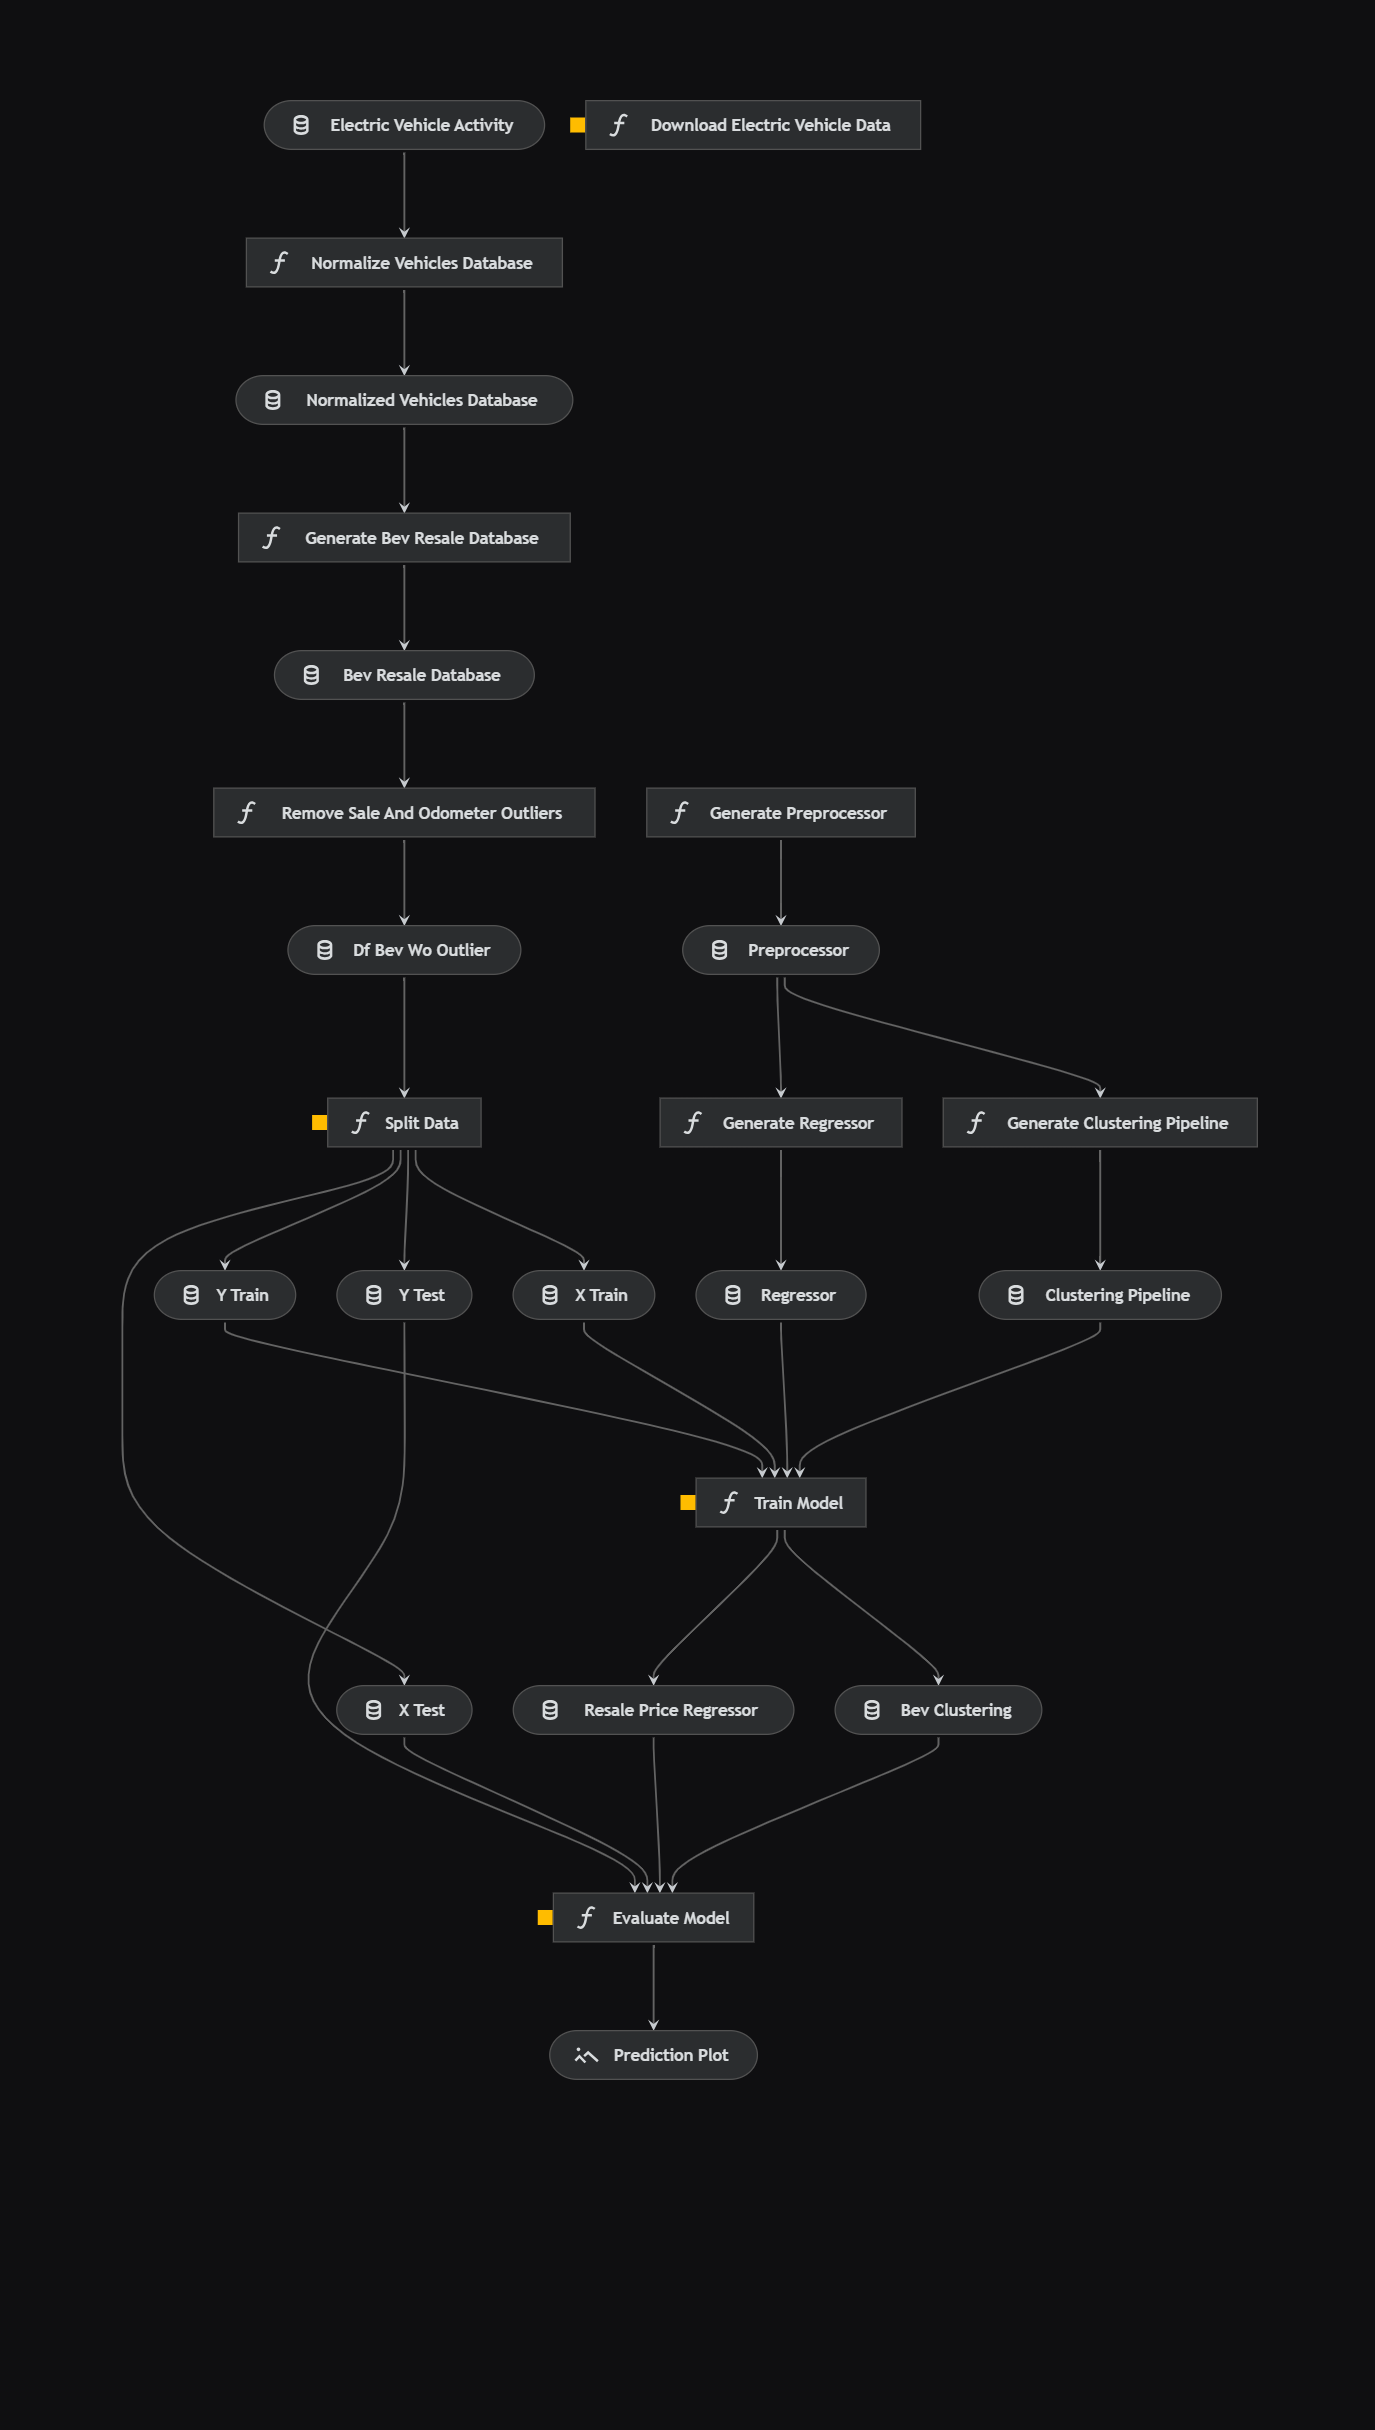
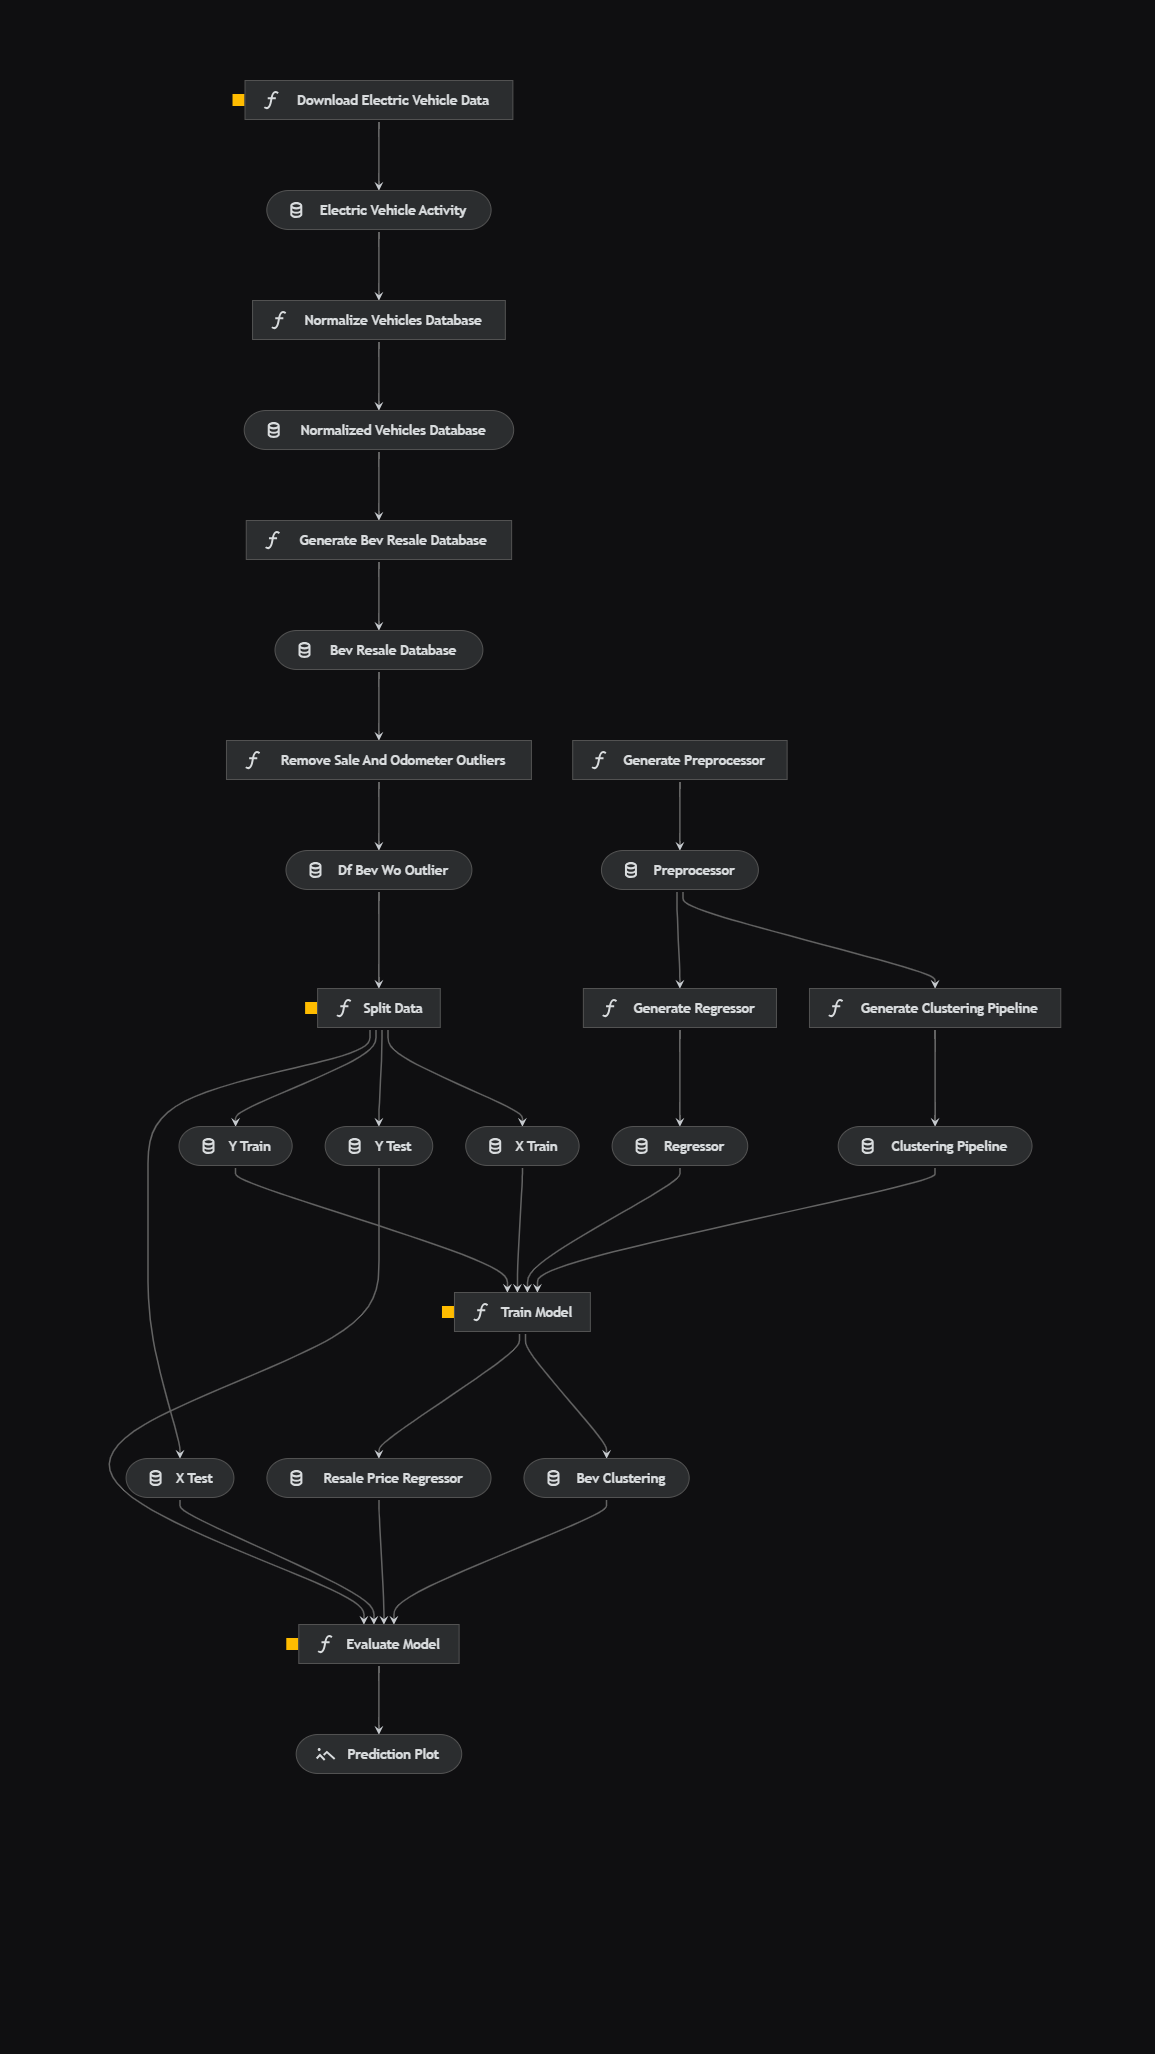
correção de pipeline + fluxograma

Changed region(s): [[0.0935, 0.0935, 0.9351, 0.6543], [0.0935, 0.6543, 0.7792, 0.8724], [0.187, 0.0312, 0.6857, 0.0623]]

diff --git a/src/electric_vehicles/pipelines/get_electric_vehicle_data/nodes.py b/src/electric_vehicles/pipelines/get_electric_vehicle_data/nodes.py
@@ -3,9 +3,11 @@ Pipeline 'get_electric_vehicle_data'
 generated using Kedro 0.18.12
 """
 import requests
+import pandas as pd
+from io import BytesIO
 
 
-def download_data(url: str, save_path: str) -> None:
+def download_data(url: str) -> pd.DataFrame:
     """
     Função que carrega base de dados de um dado endereço na internet.
     """
@@ -13,7 +15,6 @@ def download_data(url: str, save_path: str) -> None:
 
     # Verifica se o download foi bem sucedido
     if data.status_code == 200:
-        with open(save_path, "wb") as f:
-            f.write(data.content)
+        return pd.read_csv(BytesIO(data.content), sep=',')
     else:
         print("Erro ao carregar dados.")

diff --git a/src/electric_vehicles/pipelines/get_electric_vehicle_data/pipeline.py b/src/electric_vehicles/pipelines/get_electric_vehicle_data/pipeline.py
@@ -14,9 +14,8 @@ def download_electric_vehicle_data(**kwargs) -> Pipeline:
                 func=download_data,
                 inputs={
                     "url": "params:electric_vehicle_data_url",
-                    "save_path": "params:electric_vehicle_data_save_path",
                 },
-                outputs=None,
+                outputs='electric_vehicle_activity',
                 name="download_electric_vehicle_data",
             )
         ]
